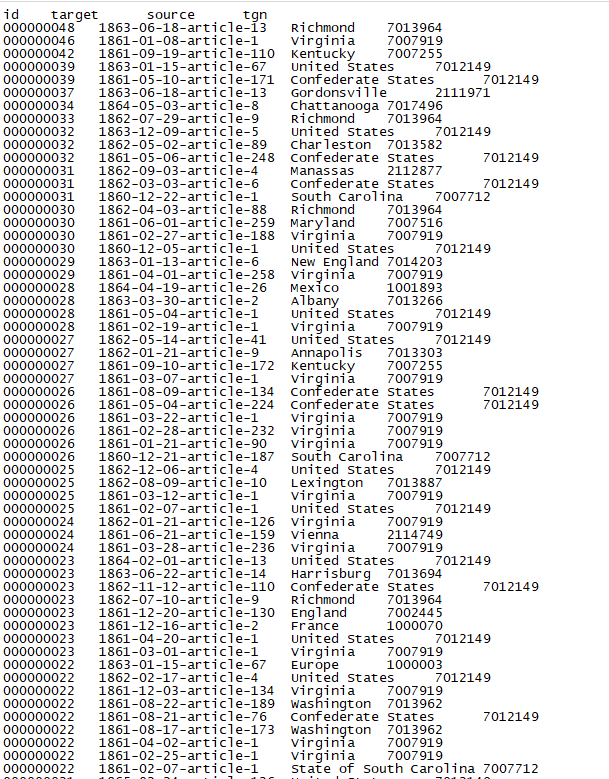
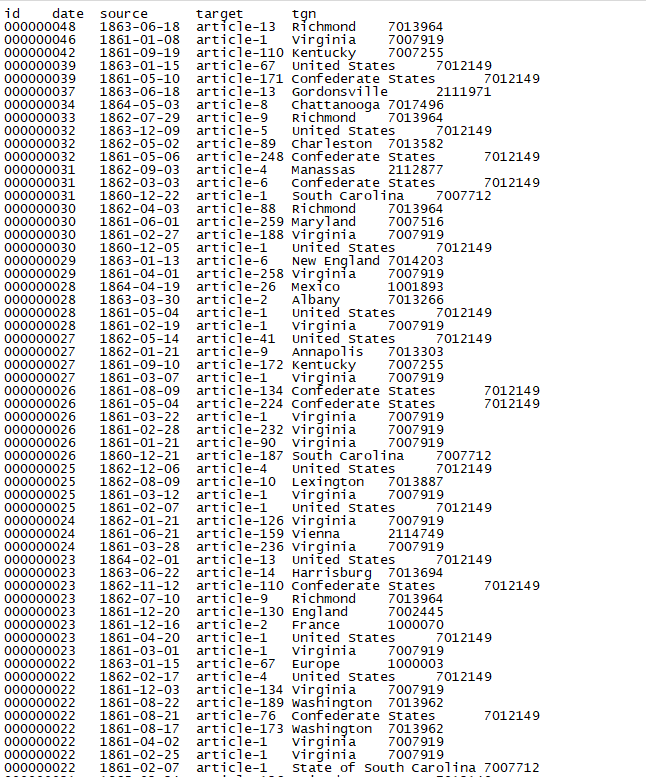
changes to hw 13

diff --git a/_posts/2019-06-26-snl-hw13.md b/_posts/2019-06-26-snl-hw13.md
@@ -37,7 +37,7 @@ for f in listOfFiles:
     for a in articles:
         counter += 1                                                            # for loop that counts each article
         places = a.find_all("placename", key = True)                            # continues to find all placenames with an attribute
-        article = issue_date + "-article-" + str(counter)                       # variable that holds the issue date of the dispatch a string and an article counter
+        article = "article-" + str(counter)                                     # variable that holds the issue date of the dispatch a string and an article counter
         print(article)
         for p in places:
             place = p.get_text()                                                # for loop to retrieve all placenames as value from the placename tag
@@ -48,7 +48,7 @@ for f in listOfFiles:
                 key = [d for d in k if d.isdigit()]                             # for loop to clean tgn numbers digits only
                 tag_id = ''.join(key)
 
-                placeList = "\t".join([article,place,tag_id])                   # creating a variable that holds each result article, place, tag_id
+                placeList = "\t".join([issue_date,article,place,tag_id])        # creating a variable that holds each result article, place, tag_id
                 placeNames.append(placeList)                                    # appending the variable to a list
 
 for i in placeNames:                                                            # creating a frequency with a for loop for all place names
@@ -71,7 +71,7 @@ resultsToSave = "\n".join(resultsCSV)                                           
 newfile = newPathToFolder  + "resultsFull_3.csv"
 
 # creating a header for the final file
-header = "id\ttarget\tsource\ttgn\n"
+header = "id\tdate\tsource\ttarget\ttgn\n"
 
 # saving
 with open(newfile, "w", encoding="utf8") as f8:
